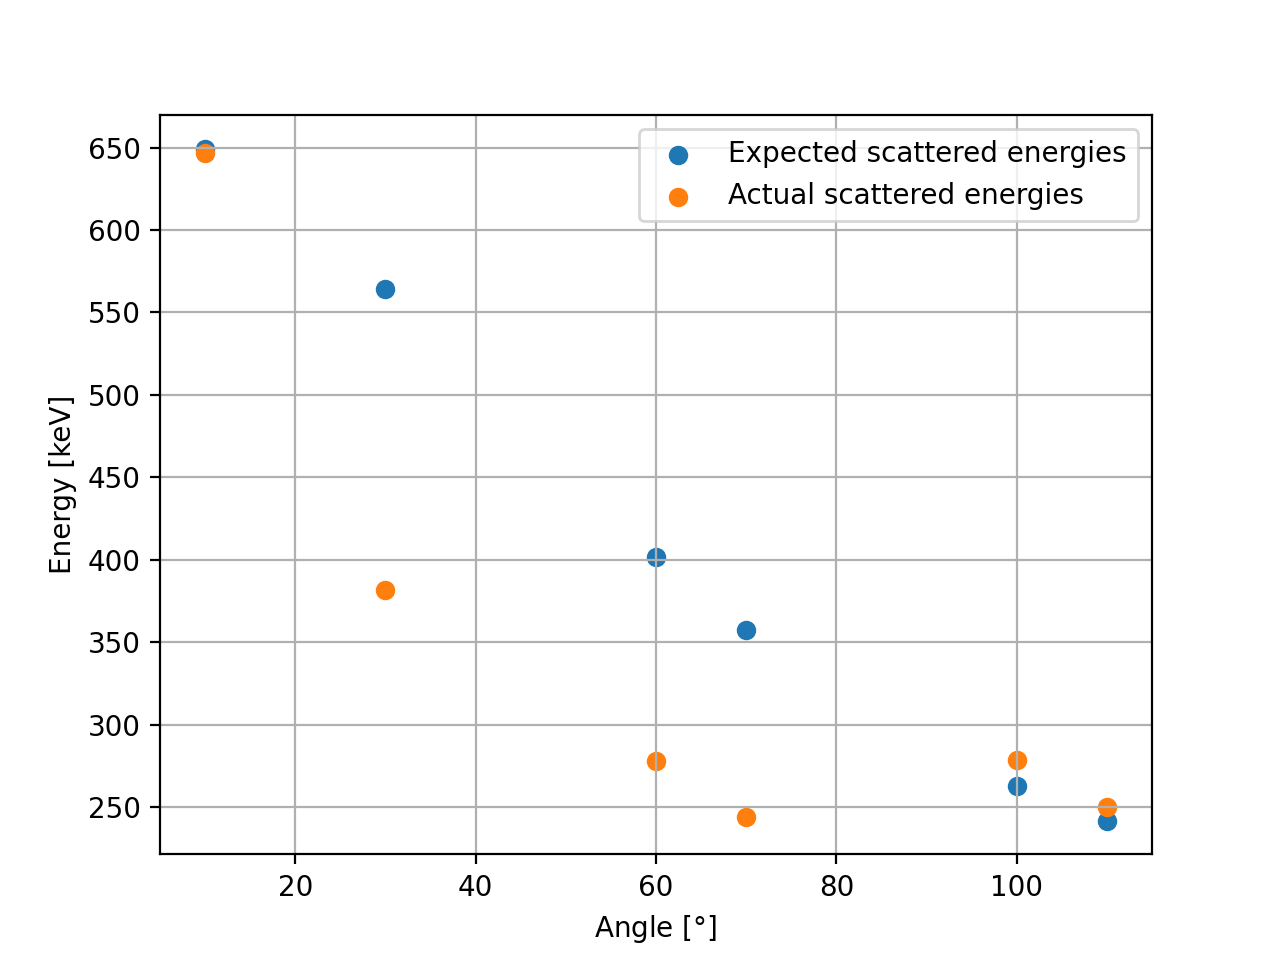
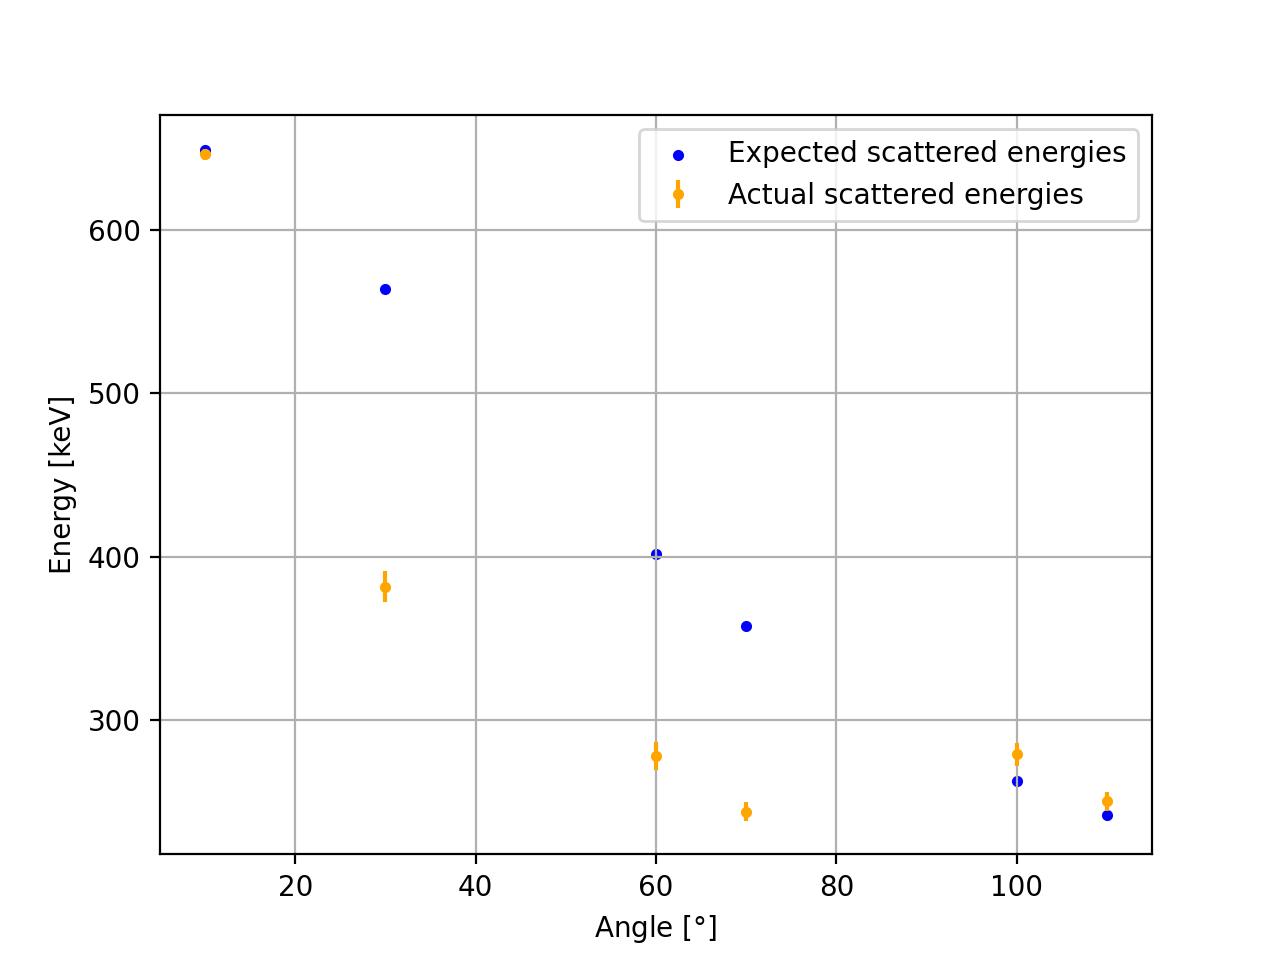
:sparkles: Error bars

diff --git a/lab1-compton/plot-stuff.py b/lab1-compton/plot-stuff.py
@@ -12,6 +12,16 @@ data = {
     100: 278.902,
     110: 250.281,
 }
+
+full_w_half_max = {
+    10: 8.108,
+    30: 22.29,
+    60: 20,
+    70: 13.314,
+    100: 16.183,
+    110: 13.556,
+}
+
 sketch_data = {30, 60, 70}
 angles = list(data.keys())
 
@@ -28,6 +38,14 @@ def x_from_angle(deg):                 # x-axis quantity
 def y_from_eprime(eprime):             # y-axis quantity
     return (1.0 / eprime) - (1.0 / e)  # 1/E' - 1/E
 
+def std_dev_from_fwhm(fwhm):
+    ln2 = np.log(2)
+    den = 2 * np.sqrt(2 * ln2)
+    return fwhm / den
+
+def y_error(eprime, sigma):
+	return sigma / (eprime*eprime)
+
 def expected_e_from_angle(angle):
     one_less_cos_a = x_from_angle(angle)
     denominator    = 1/e0 * one_less_cos_a + 1/e
@@ -40,7 +58,13 @@ y_raw = np.array([y_from_eprime(data[a]) for a in angles], dtype=float)
 m_raw, b_raw = np.polyfit(x_raw, y_raw, 1)
 
 plt.figure()
-plt.scatter(x_raw, y_raw, label="Original data")
+
+raw_err = np.array([
+    y_error(data[a], std_dev_from_fwhm(full_w_half_max[a]))
+    for a in angles
+], dtype=float)
+
+plt.errorbar(x_raw, y_raw, yerr=raw_err, marker='.', color='blue', linestyle='none', label="Original data")
 plt.plot(x_raw, m_raw * x_raw + b_raw, "g--", label=f"Fit: y = {m_raw:.4g}x + {b_raw:.4g}")
 plt.xlabel(r"$1 - \cos(\theta)$")
 plt.ylabel(r"$1/E' - 1/E$ [1/keV]")
@@ -62,8 +86,13 @@ m_corr, b_corr = np.polyfit(x_corr, y_corr, 1)
 plt.figure()
 mask = np.array([a in sketch_data for a in angles])
 
-plt.scatter(x_corr[~mask], y_corr[~mask], label="Uncorrected points")
-plt.scatter(x_corr[mask],  y_corr[mask],  label="Corrected points")
+cor_err = np.array([
+    correct_sys_error(y_error(data[a], std_dev_from_fwhm(full_w_half_max[a])))
+    for a in angles
+], dtype=float)
+
+plt.errorbar(x_corr[~mask], y_corr[~mask], yerr=raw_err[~mask], marker='.', color='blue', linestyle='none', label="Uncorrected points")
+plt.errorbar(x_corr[mask],  y_corr[mask], yerr=cor_err[mask], marker='.', color='orange', linestyle='none', label="Corrected points")
 plt.plot(x_corr, m_corr * x_corr + b_corr, "g--", label=f"Fit: y = {m_corr:.4g}x + {b_corr:.4g}")
 
 plt.xlabel(r"$1 - \cos(\theta)$")
@@ -72,14 +101,16 @@ plt.legend()
 plt.grid(True)
 plt.savefig("cr_data.png", dpi=200)
 
-# ---------- Plot all data as-is ----------
+# ---------- Compare expected and measured energies ----------
 x_exp = np.array([a for a in angles], dtype=float)
 y_exp = np.array([expected_e_from_angle(a) for a in angles], dtype=float)
 y_act = np.array([data[a] for a in angles], dtype=float)
 
 plt.figure()
-plt.scatter(x_exp, y_exp, label="Expected scattered energies")
-plt.scatter(x_exp, y_act, label="Actual scattered energies")
+
+act_err = np.array([std_dev_from_fwhm(full_w_half_max[a]) for a in angles], dtype=float) # get error
+plt.errorbar(x_exp, y_act, yerr=act_err, marker='.', color='orange', linestyle='none', label="Actual scattered energies")
+plt.scatter(x_exp, y_exp, marker='.', color='blue', label="Expected scattered energies")
 plt.xlabel(r"Angle [$\degree$]")
 plt.ylabel("Energy [keV]")
 plt.legend()
